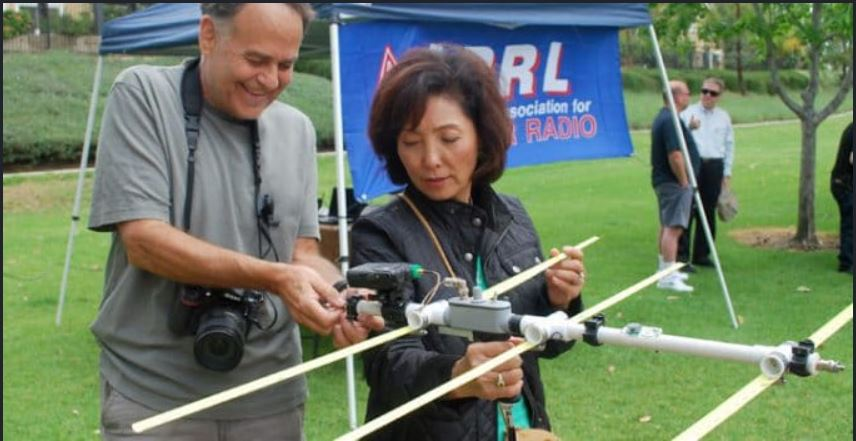
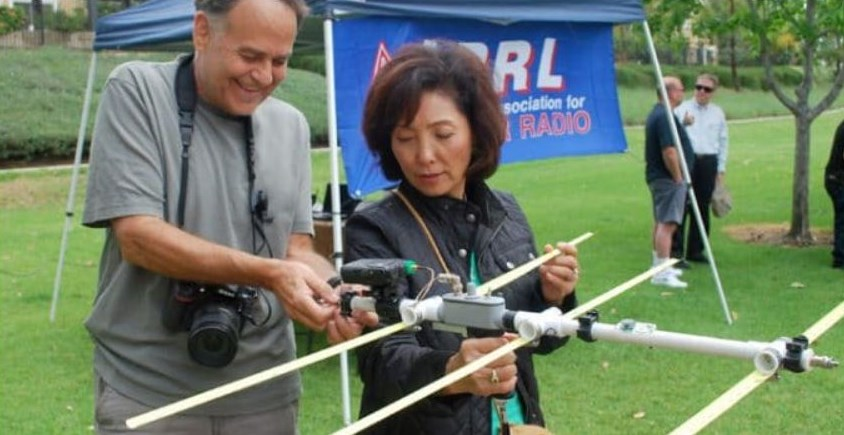
Fox Hunting photo: trim the dark edges

diff --git a/index.html b/index.html
@@ -17,7 +17,7 @@
     .kicker { font-size: 14px; }
 
     figure.shot { margin-bottom: 96px; }
-    figure.shot .k-photo { aspect-ratio: 856 / 441; }
+    figure.shot .k-photo { aspect-ratio: 844 / 435; }
     figure.shot figcaption { margin-top: 12px; color: var(--muted); font-size: 15px; }
 
     .head { display: grid; gap: 12px 64px; grid-template-columns: 1fr; margin-bottom: 40px; }
@@ -83,7 +83,7 @@
     </section>
 
     <figure class="shot">
-      <div class="k-photo"><img src="img/fox-tape-yagi.jpg" width="856" height="441" alt="A ham helps a newcomer hold a tape-measure Yagi antenna with a radio attached, at an outdoor ARRL booth"></div>
+      <div class="k-photo"><img src="img/fox-tape-yagi.jpg" width="844" height="435" alt="A ham helps a newcomer hold a tape-measure Yagi antenna with a radio attached, at an outdoor ARRL booth"></div>
       <figcaption>Learning to take a bearing with a tape-measure Yagi, the classic homebrew fox hunting antenna.</figcaption>
     </figure>
 
